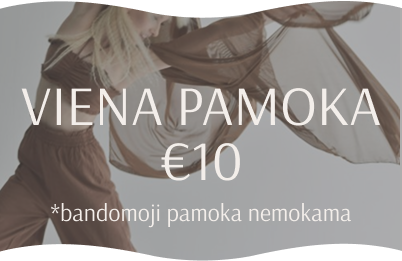
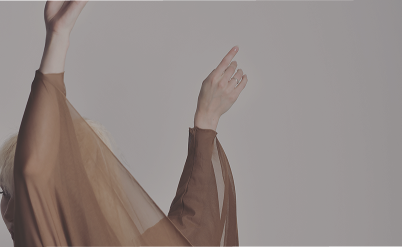
Navbar tweaks, more fonts changes, prices page rework

diff --git a/empathy-web/src/routes/prices/+page.svelte b/empathy-web/src/routes/prices/+page.svelte
@@ -1,8 +1,6 @@
 <script>
     import WaveImage from "../../atomic/molecules/WaveImage.svelte";
-    import Heading from "../../atomic/atoms/Text/Heading.svelte";
-    import TextContainer from "../../atomic/molecules/TextContainer.svelte";
-    import Paragraph from "../../atomic/atoms/Text/Paragraph.svelte";
+    import Label from "../../atomic/atoms/Text/Label.svelte";
 </script>
 
 <style>
@@ -12,7 +10,25 @@
 </style>
 
 <div class="flex flex-col w-full">
-    <WaveImage grow={1} imageUrl="prices/one-lesson.png"/>
-    <WaveImage grow={1} imageUrl="prices/month.png"/>
-    <WaveImage grow={1} imageUrl="prices/individual.png"/>
+    <WaveImage grow={1} imageUrl="prices/one-lesson.png">
+        <div class="flex flex-col h-full w-full items-center justify-center select-none">
+            <Label font="marcellus" color="sand" size={46}>VIENA PAMOKA</Label>
+            <Label font="redhat" color="sand" size={46}>€10</Label>
+            <Label font="redhat" color="sand" size={20}>*bandomoji pamoka nemokama</Label>
+        </div>
+    </WaveImage>
+    <WaveImage grow={1} imageUrl="prices/month.png">
+        <div class="flex flex-col h-full w-full items-center justify-center select-none">
+            <Label font="marcellus" color="sand" size={46}>MĖNUO</Label>
+            <Label font="redhat" color="sand" size={46}>€60</Label>
+            <Label font="redhat" color="sand" size={20}>*bandomoji pamoka nemokama</Label>
+        </div>
+    </WaveImage>
+    <WaveImage grow={1} imageUrl="prices/individual.png">
+        <div class="flex flex-col h-full w-full items-center justify-center select-none">
+            <Label font="marcellus" color="sand" size={46}>INDIVIDUALI</Label>
+            <Label font="redhat" color="sand" size={46}>€40</Label>
+            <Label font="redhat" color="sand" size={20}>*1-2 mokiniai</Label>
+        </div>
+    </WaveImage>
 </div>

diff --git a/empathy-web/src/atomic/molecules/NavbarOverlay.svelte b/empathy-web/src/atomic/molecules/NavbarOverlay.svelte
@@ -29,12 +29,12 @@
 </style>
 
 <div class:visible={isOpen} class="container flex flex-col items-center gap-7">
-    <NavbarLink text="registration" route="register"/>
-    <NavbarLink text="about us" route="about"/>
-    <NavbarLink text="schedule" route="schedule"/>
-    <NavbarLink text="prices" route="prices"/>
-    <NavbarLink text="services" route="services"/>
-    <NavbarLink text="contacts" route="contacts"/>
+    <NavbarLink text="registracija" route="https://docs.google.com/forms/d/e/1FAIpQLScEL6M-bLxUNIufIX8MuHm9402mSsuWmaiHDPRR94OV89lQ2w/viewform"/>
+    <NavbarLink text="apie mus" route="./about"/>
+    <NavbarLink text="tvarkaraštis" route="./schedule"/>
+    <NavbarLink text="kainos" route="./prices"/>
+<!--    <NavbarLink text="paslaugos" route="services"/>-->
+    <NavbarLink text="kontaktai" route="./contacts"/>
 
     <div class="flex flex-row gap-5 mt-15">
         <SocialButton type="Facebook"/>

diff --git a/empathy-web/src/atomic/molecules/WaveImage.svelte b/empathy-web/src/atomic/molecules/WaveImage.svelte
@@ -1,6 +1,6 @@
 <script lang="ts">
     import Label from "../atoms/Text/Label.svelte";
-
+    import type {Snippet} from "svelte";
     interface Props {
         title?: string
         sideTextHeader?: string
@@ -13,6 +13,7 @@
         marginBot?: number
         aspectRatio?: string
         grow?: number
+        children?: Snippet
     }
 
     let {
@@ -27,6 +28,7 @@
         marginBot,
         aspectRatio,
         grow,
+        children,
     }: Props = $props();
 </script>
 
@@ -111,7 +113,10 @@
         class:separator={separator}
         class:animate="{animationDelay}"
         class:side-text={sideText}>
-    {#if href}
+
+    {#if children}
+        {@render children?.()}
+    {:else if href}
         <a href="{href}" aria-label="{title}">
             <Label font="marcellus" color="white" size={42}>{title}</Label>
         </a>

diff --git a/empathy-web/src/app.html b/empathy-web/src/app.html
@@ -19,10 +19,7 @@
     <!-- Fonts -->
     <link rel="preconnect" href="https://fonts.googleapis.com">
     <link rel="preconnect" href="https://fonts.gstatic.com" crossorigin>
-    <link href="https://fonts.googleapis.com/css2?family=Cormorant+Garamond:ital,wght@0,300..700;1,300..700&display=swap"
-          rel="stylesheet">
-    <link href="https://fonts.googleapis.com/css2?family=Arsenal:ital,wght@0,400;0,700;1,400;1,700&family=Cormorant+Garamond:ital,wght@0,300..700;1,300..700&display=swap"
-          rel="stylesheet">
+    <link href="https://fonts.googleapis.com/css2?family=Marcellus&family=Red+Hat+Display:ital,wght@0,300..900;1,300..900&display=swap" rel="stylesheet">
 </head>
 <body data-sveltekit-preload-data="hover">
 <div style="display: contents">%sveltekit.body%</div>

diff --git a/empathy-web/src/atomic/atoms/RegisterButton.svelte b/empathy-web/src/atomic/atoms/RegisterButton.svelte
@@ -3,8 +3,8 @@
 </script>
 
 <style>
-    button {
-        font-family: "Arsenal", serif;
+    a {
+        font-family: "Marcellus", serif;
         color: #626262;
         font-size: 16pt;
         border: 1px solid #5F5B5B;
@@ -15,8 +15,8 @@
 </style>
 
 <div class="mb-10 flex justify-center">
-    <button class="py-2 px-6 rounded-full"
-            on:click={() => alert('register')}>
+    <a href="https://docs.google.com/forms/d/e/1FAIpQLScEL6M-bLxUNIufIX8MuHm9402mSsuWmaiHDPRR94OV89lQ2w/viewform"
+       class="py-2 px-6 rounded-full">
         REGISTRACIJA
-    </button>
+    </a>
 </div>

diff --git a/empathy-web/src/atomic/atoms/NavbarLink.svelte b/empathy-web/src/atomic/atoms/NavbarLink.svelte
@@ -12,7 +12,7 @@
     a{
         font-size: 36pt;
         line-height: 36pt;
-        font-family: "Arsenal", serif;
+        font-family: "Marcellus", serif;
         font-optical-sizing: auto;
         font-weight: 400;
         font-style: normal;
@@ -20,6 +20,6 @@
     }
 </style>
 
-<a href="./{route}">
+<a href="{route}">
     {text}
 </a>

diff --git a/empathy-web/src/atomic/organisms/Footer.svelte b/empathy-web/src/atomic/organisms/Footer.svelte
@@ -28,6 +28,6 @@
 
 <div class="flex items-center justify-center pt-5"
      class:fixed={isFixed}>
-    <Label size={10} font="marcellus" color="gray">© empathy, 2025</Label>
+    <Label size={10} font="redhat" color="gray">© empathy, 2025</Label>
 </div>
 
